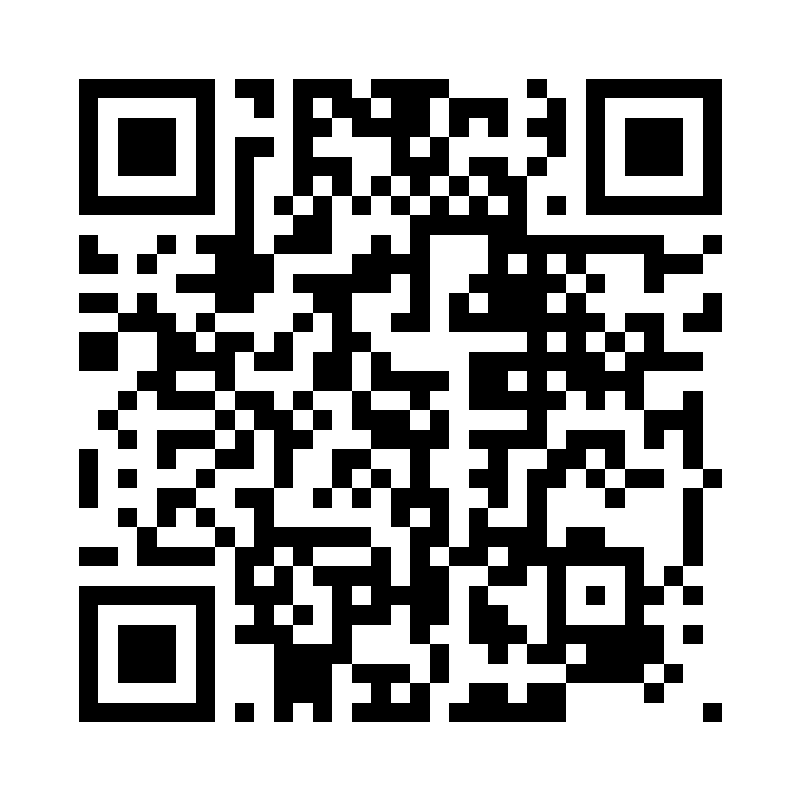
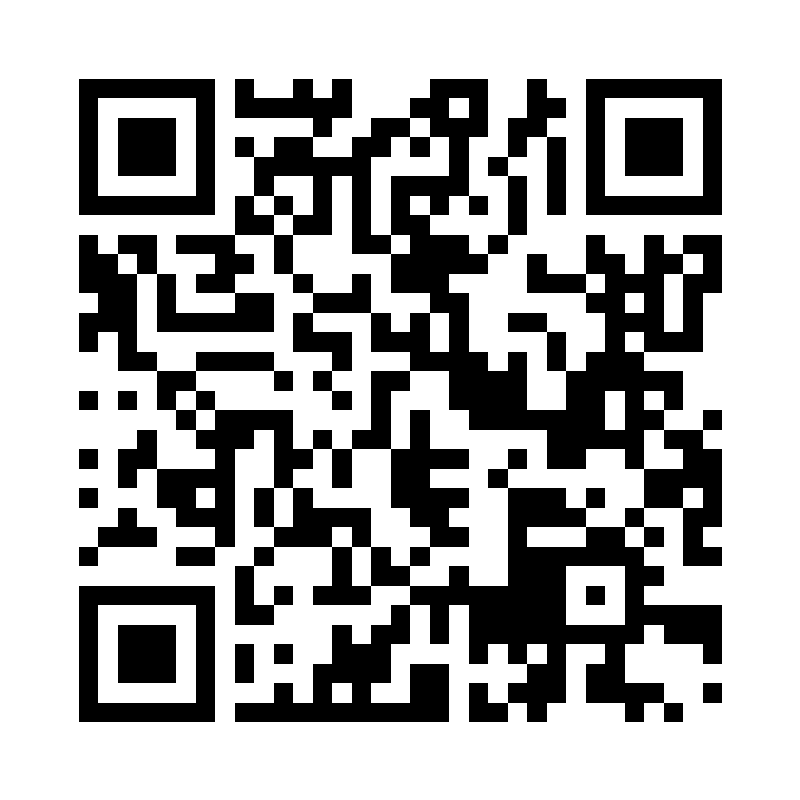
Update public Pages URL and QR code
Point presentation documentation and the scannable QR image to the public repository owned by officialsunilng-coder.

Copilot-Session: cc6cdade-f9bb-4f64-bb6f-ce5003e5fe32

Changed region(s): [[0.0938, 0.0938, 0.9062, 0.9062]]

diff --git a/README.md b/README.md
@@ -9,7 +9,7 @@ This repository hosts the hackathon browser demo and Android test package.
 
 Open the QR landing page:
 
-`https://sunilnan_microsoft.github.io/ai-shiksha/demo.html`
+`https://officialsunilng-coder.github.io/ai-shiksha/demo.html`
 
 The browser demo includes:
 

diff --git a/ARCHITECTURE.md b/ARCHITECTURE.md
@@ -399,7 +399,7 @@ GitHub repository
 Target QR URL:
 
 ```text
-https://sunilnan_microsoft.github.io/ai-shiksha/demo.html
+https://officialsunilng-coder.github.io/ai-shiksha/demo.html
 ```
 
 ## 10. Recommended single-slide diagram
